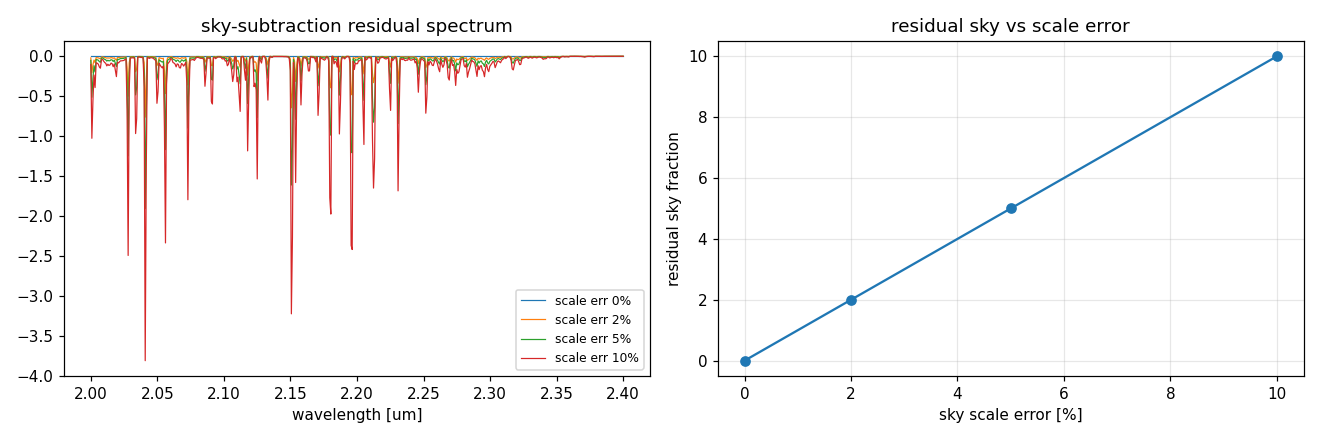
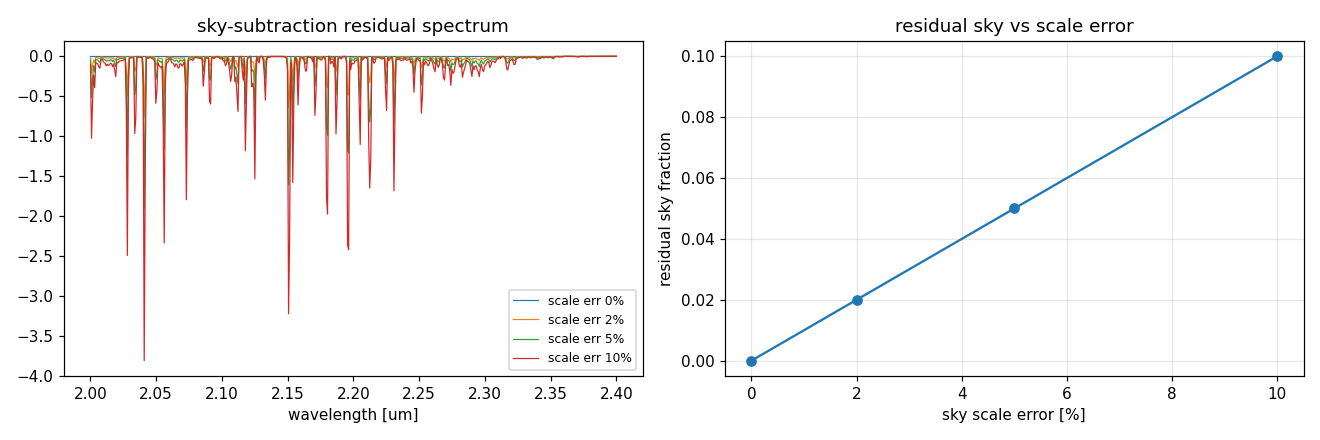
Fix review findings: sky residual fraction, summary note, manifest, highz validation, CLI
Tightly-scoped fixes; no architecture rewrite. Boundary unchanged (learning/
portfolio demonstrator; not a calibrated ETC / instrument reproduction).

P1 sky_telluric.sky_residual_metrics: the denominator summed a (1,1,nlambda)
  broadcast while the numerator summed the full cube, inflating residual_sky_
  fraction by nx*ny (10% reported as 10.0). Now broadcast the injected sky to the
  full residual shape before summing. Works for 1-D spectra and 3-D cubes.
  Regenerated sky_telluric_metrics.csv (residual_sky_fraction_max ~0.1) and
  summary.json (residual fractions [0, 0.02, 0.05, 0.10]). Added cube + 1-D
  regression tests.

P2 integration.write_artifacts: now uses reporting.write_summary_json so every
  CLI `run` summary (toy/instrument_inspired/public_conditioned/highz) carries
  author + package_version + non-overclaiming note + mode/metrics/provenance/
  provenance_counts. Removed now-unused json/__version__ imports. Test extended.

P2 CLI packaging: `ao-ifu run` is now fully package-native for ALL modes
  (highz uses make_highz_galaxy_config + write_artifacts, not examples/). Figure-
  suite subcommands still reuse examples/ and now fail with a clear source-checkout
  message; documented in README; added a graceful-failure test.

P3 manifest provenance: sky_residual_science_impact.png / sky_telluric tables now
  list the sky + filter (public/proxy) and synthetic-source classes; mode-comparison
[…]

diff --git a/src/ao_fed_ifu/integration.py b/src/ao_fed_ifu/integration.py
@@ -23,7 +23,6 @@ saves figures, a CSV metrics table and a JSON run summary.
 
 from __future__ import annotations
 
-import json
 from dataclasses import dataclass, field
 from functools import partial
 from pathlib import Path
@@ -31,7 +30,6 @@ from pathlib import Path
 import numpy as np
 import pandas as pd
 
-from . import __version__
 from . import cube_reconstruction as recon
 from . import diagnostics as diag
 from . import psf_coupling as psf
@@ -58,6 +56,11 @@ from .spectrograph_model import SpectrographConfig
 # photons / s / m^2 / um / arcsec^2.  An engineering_estimate, not a measurement;
 # the cached ESO SkyCalc radiance is used directly when available.
 SYNTHETIC_SKY_RADIANCE_PH = 1500.0
+
+# Observed-wavelength range (um) in which a high-z line can be placed: the overlap
+# of the cached public data (SVO Ks, ESO SkyCalc, CALSPEC), with a small margin so
+# a window fits around the line. Used by make_highz_galaxy_config to validate.
+SUPPORTED_HIGHZ_OBS_UM = (2.00, 2.40)
 
 
 @dataclass
@@ -182,6 +185,19 @@ def make_highz_galaxy_config(line: str = "Halpha", redshift: float = 2.30, **ove
     if line not in REST_FRAME_LINES_UM:
         raise ValueError(f"Unknown line {line!r}; choose from {list(REST_FRAME_LINES_UM)}")
     obs = observed_wavelength_um(REST_FRAME_LINES_UM[line], redshift)
+    # The observed line must land inside the band supported by the cached public
+    # data (SVO Ks ~1.95-2.40, SkyCalc 1.90-2.50, CALSPEC 0.30-2.60 um). Reject
+    # redshift/line combinations that fall outside this overlap rather than
+    # silently clamping to a degenerate band.
+    if not (SUPPORTED_HIGHZ_OBS_UM[0] <= obs <= SUPPORTED_HIGHZ_OBS_UM[1]):
+        raise ValueError(
+            f"observed {line} (rest {REST_FRAME_LINES_UM[line]:.4f} um) at z={redshift} "
+            f"is {obs:.4f} um, outside the supported public-conditioned band "
+            f"[{SUPPORTED_HIGHZ_OBS_UM[0]}-{SUPPORTED_HIGHZ_OBS_UM[1]}] um. "
+            f"Choose a redshift that places the line in that range "
+            f"(e.g. z ~ {SUPPORTED_HIGHZ_OBS_UM[0] / REST_FRAME_LINES_UM[line] - 1:.2f}"
+            f"-{SUPPORTED_HIGHZ_OBS_UM[1] / REST_FRAME_LINES_UM[line] - 1:.2f})."
+        )
     # Band around the observed line, clamped to the cached public-data overlap.
     lam_min = max(1.95, obs - 0.18)
     lam_max = min(2.45, obs + 0.18)
@@ -754,16 +770,16 @@ def write_artifacts(
     paths["metrics_csv"] = csv_path
 
     # --- JSON: metrics + provenance + a short config summary. ---
-    summary = {
-        "package_version": __version__,
-        "author": "Xu Han",
+    # Use the shared helper so the summary carries the same author / version /
+    # non-overclaiming note as every other artifact in the project.
+    from . import reporting as rep
+
+    json_path = rep.write_summary_json(outdir / f"{prefix}_summary.json", {
         "mode": result.config.mode,
         "metrics": result.metrics,
         "provenance": result.provenance.to_records(),
         "provenance_counts": result.provenance.summary_counts(),
-    }
-    json_path = outdir / f"{prefix}_summary.json"
-    json_path.write_text(json.dumps(summary, indent=2), encoding="utf-8")
+    })
     paths["summary_json"] = json_path
 
     return paths

diff --git a/examples/run_sky_telluric_residuals.py b/examples/run_sky_telluric_residuals.py
@@ -158,14 +158,20 @@ def generate(outdir: Path, quick: bool = False, cache_dir=None) -> dict:
         ],
     })
 
+    # Provenance classes that actually feed each artifact: the SkyCalc sky +
+    # telluric and the SVO filter (public or proxy), the engineering_estimate sky
+    # scaling, the synthetic source line, and the internal_validation biases.
     sky_class = sky_prov.source_class
+    filt_class = filt_prov.source_class
+    data_classes = sorted({sky_class, filt_class})
+    full = ["internal_validation", "engineering_estimate", "synthetic_proxy", *data_classes]
     entries = [
-        rep.manifest_entry(p1.name, "figure", GEN, sky_class, [sky_class, "engineering_estimate"], "SkyCalc + SVO cache", "Sky/telluric inputs."),
-        rep.manifest_entry(p2.name, "figure", GEN, "internal_validation", ["internal_validation", "engineering_estimate", sky_class], "controlled sky subtraction", "Subtraction residuals."),
-        rep.manifest_entry(p3.name, "figure", GEN, "internal_validation", ["internal_validation", sky_class], "controlled telluric correction", "Telluric correction effect."),
-        rep.manifest_entry(p4.name, "figure", GEN, "internal_validation", ["internal_validation", "engineering_estimate"], "controlled residual scan", "Science impact."),
-        rep.manifest_entry(csv.name, "table", GEN, "internal_validation", ["internal_validation", "engineering_estimate", sky_class], "sky/telluric experiment", "Residual + science metrics."),
-        rep.manifest_entry(summ.name, "table", GEN, "internal_validation", ["internal_validation", "engineering_estimate", sky_class], "sky/telluric experiment", "Residuals + limitations."),
+        rep.manifest_entry(p1.name, "figure", GEN, sky_class, [*data_classes, "engineering_estimate"], "SkyCalc + SVO cache", "Sky/telluric inputs."),
+        rep.manifest_entry(p2.name, "figure", GEN, "internal_validation", ["internal_validation", "engineering_estimate", *data_classes], "controlled sky subtraction", "Subtraction residuals."),
+        rep.manifest_entry(p3.name, "figure", GEN, "internal_validation", ["internal_validation", "synthetic_proxy", *data_classes], "controlled telluric correction", "Telluric correction effect."),
+        rep.manifest_entry(p4.name, "figure", GEN, "internal_validation", full, "controlled residual scan", "Science impact (sky+telluric+filter+source)."),
+        rep.manifest_entry(csv.name, "table", GEN, "internal_validation", full, "sky/telluric experiment", "Residual + science metrics."),
+        rep.manifest_entry(summ.name, "table", GEN, "internal_validation", full, "sky/telluric experiment", "Residuals + limitations."),
     ]
     rep.update_manifest(outdir, entries)
     return {"inputs": p1, "subtraction": p2, "telluric": p3, "impact": p4, "metrics_csv": csv, "summary_json": summ}

diff --git a/src/ao_fed_ifu/cli.py b/src/ao_fed_ifu/cli.py
@@ -28,11 +28,24 @@ RUN_MODES = ("toy", "instrument_inspired", "public_conditioned", "highz")
 
 
 def _load_example(name: str):
-    """Import an ``examples/<name>.py`` generator module from the source tree."""
+    """Import an ``examples/<name>.py`` figure generator from the source tree.
+
+    The figure-suite subcommands reuse the example plotting code, which lives
+    outside the installed package.  ``run`` and ``validate`` are package-native
+    and do not call this; the figure suites require a **source checkout** (the
+    repository's ``examples/`` directory).  Raises a clear ``SystemExit`` if the
+    generator cannot be found.
+    """
     examples_dir = Path(__file__).resolve().parents[2] / "examples"
     path = examples_dir / f"{name}.py"
     if not path.exists():
-        raise SystemExit(f"generator {path} not found; run ao-ifu from a source checkout")
+        raise SystemExit(
+            f"figure-suite generator '{name}' not found at {path}.\n"
+            "The figure-suite subcommands (public-data, compare, systematics, "
+            "sky-telluric, reconstruct-demo) require running 'ao-ifu' from a source "
+            "checkout containing examples/. The core 'run' and 'validate' "
+            "subcommands work from any install."
+        )
     spec = importlib.util.spec_from_file_location(name, path)
     mod = importlib.util.module_from_spec(spec)
     spec.loader.exec_module(mod)
@@ -46,23 +59,20 @@ def _print_paths(title: str, paths) -> None:
 
 
 def _cmd_run(args) -> int:
+    # Fully package-native (no dependency on examples/): every mode runs the
+    # pipeline and writes standard artifacts. The richer high-z *science* figures
+    # live in examples/run_science_case_highz_galaxy.py.
     from .integration import (
-        make_instrument_inspired_config, make_public_conditioned_config,
-        make_toy_config, run_pipeline, write_artifacts,
+        make_highz_galaxy_config, make_instrument_inspired_config,
+        make_public_conditioned_config, make_toy_config, run_pipeline, write_artifacts,
     )
 
     out = Path(args.out)
-    if args.mode == "highz":
-        # Use the richer science-case generator for the high-z mode.
-        mod = _load_example("run_science_case_highz_galaxy")
-        paths = mod.generate(out, quick=args.quick)
-        _print_paths("high-z science artifacts:", paths)
-        return 0
-
     builders = {
         "toy": make_toy_config,
         "instrument_inspired": make_instrument_inspired_config,
         "public_conditioned": make_public_conditioned_config,
+        "highz": make_highz_galaxy_config,
     }
     if args.mode not in builders:
         raise SystemExit(f"unknown --mode {args.mode!r}; choose from {RUN_MODES}")

diff --git a/examples/run_mode_comparison_dashboard.py b/examples/run_mode_comparison_dashboard.py
@@ -119,15 +119,18 @@ def generate(outdir: Path, quick: bool = False, cache_dir=None) -> dict:
         "limitations": ["Small configs for a fast one-page comparison; not performance predictions."],
     })
 
+    # Provenance classes actually represented by the compared runs (public_conditioned
+    # and highz add direct_public_data / literature_derived), plus the metric labels.
+    run_classes = sorted({cls for name in modes for cls, n in results[name].provenance.summary_counts().items() if n})
+    metric_classes = sorted({r["source_class"] for r in records})
+    full = sorted(set(run_classes) | set(metric_classes))
     entries = [
-        rep.manifest_entry(p1.name, "figure", GEN, "synthetic_proxy",
-                           ["synthetic_proxy", "engineering_estimate", "internal_validation", "direct_public_data", "literature_derived"],
+        rep.manifest_entry(p1.name, "figure", GEN, "synthetic_proxy", full,
                            "all four modes", "Mode comparison dashboard."),
-        rep.manifest_entry(csv.name, "table", GEN, "internal_validation",
-                           ["synthetic_proxy", "engineering_estimate", "internal_validation"],
+        rep.manifest_entry(csv.name, "table", GEN, "internal_validation", full,
                            "all four modes", "mode,metric,value,source_class,notes."),
-        rep.manifest_entry(summ.name, "table", GEN, "internal_validation",
-                           ["internal_validation"], "all four modes", "Modes + provenance counts."),
+        rep.manifest_entry(summ.name, "table", GEN, "internal_validation", full,
+                           "all four modes", "Modes + provenance counts."),
     ]
     rep.update_manifest(outdir, entries)
     return {"dashboard": p1, "metrics_csv": csv, "summary_json": summ}

diff --git a/src/ao_fed_ifu/sky_telluric.py b/src/ao_fed_ifu/sky_telluric.py
@@ -124,8 +124,15 @@ def sky_residual_metrics(
     * ``residual_sky_fraction`` -- ``sum|residual| / sum(injected sky)`` (0 = perfect
       subtraction; the absolute value captures both over- and under-subtraction);
     * ``telluric_min_transmission`` -- the deepest telluric trough in band.
+
+    Works for a 1-D spectrum or a 3-D cube: the injected sky (which may be a 1-D
+    per-spaxel spectrum) is broadcast to the *full* shape of ``residual`` before
+    summing, so the numerator and denominator span the same number of voxels.
     """
-    sky_total = float(np.sum(np.abs(_broadcast_spectral(residual, np.asarray(sky_injected, dtype=float)))))
+    residual = np.asarray(residual, dtype=float)
+    sky_spectral = _broadcast_spectral(residual, np.asarray(sky_injected, dtype=float))
+    sky_full = np.broadcast_to(sky_spectral, residual.shape)
+    sky_total = float(np.sum(np.abs(sky_full)))
     resid_total = float(np.sum(np.abs(residual)))
     frac = resid_total / sky_total if sky_total > 0 else float("nan")
     return {

diff --git a/tests/test_sky_telluric.py b/tests/test_sky_telluric.py
@@ -44,6 +44,25 @@ def test_nonzero_sky_scale_error_gives_nonzero_residual():
     assert np.max(np.abs(imperfect - perfect)) > 0
 
 
+def test_residual_sky_fraction_cube_is_not_inflated():
+    # Regression: the denominator must span the full cube, not a single spectrum.
+    nlam = 30
+    sky_e = np.linspace(1.0, 5.0, nlam)
+    trans = np.full(nlam, 0.9)
+    residual = -0.05 * sky_e[None, None, :] * np.ones((4, 3, nlam))
+    frac = skt.sky_residual_metrics(residual, sky_e, trans)["residual_sky_fraction"]
+    assert frac == pytest.approx(0.05, rel=1e-6)  # ~0.05, NOT 0.05 * nx * ny
+
+
+def test_residual_sky_fraction_spectrum():
+    nlam = 30
+    sky_e = np.linspace(1.0, 5.0, nlam)
+    trans = np.full(nlam, 0.9)
+    residual = -0.10 * sky_e
+    frac = skt.sky_residual_metrics(residual, sky_e, trans)["residual_sky_fraction"]
+    assert frac == pytest.approx(0.10, rel=1e-6)
+
+
 def test_telluric_correction_inverts_absorption():
     wl = np.linspace(2.0, 2.4, 50)
     sky, _ = load_sky_spectrum(wl)

diff --git a/tests/test_cli_and_dashboard.py b/tests/test_cli_and_dashboard.py
@@ -31,6 +31,20 @@ def test_cli_invalid_mode_exits_nonzero():
     assert exc.value.code != 0
 
 
+def test_cli_run_highz_is_package_native(tmp_path):
+    # `run --mode highz` must not depend on examples/ (package-native path).
+    assert main(["run", "--mode", "highz", "--out", str(tmp_path), "--quick"]) == 0
+    assert (tmp_path / "highz_metrics.csv").exists()
+    df = pd.read_csv(tmp_path / "highz_metrics.csv")
+    assert set(df["source_class"]).issubset(set(VALID_SOURCE_CLASSES))
+
+
+def test_load_example_missing_raises_helpful():
+    with pytest.raises(SystemExit) as exc:
+        _load_example("definitely_not_a_real_generator")
+    assert "source checkout" in str(exc.value)
+
+
 def test_dashboard_imports_safely_and_formats_metrics():
     mod = _load_example("run_interactive_dashboard")
     # Formatting helpers work without a Streamlit runtime.

diff --git a/tests/test_integration.py b/tests/test_integration.py
@@ -51,7 +51,13 @@ def test_summary_json_carries_provenance_log(tmp_path):
     result = run_pipeline(make_toy_config())
     paths = write_artifacts(result, tmp_path, prefix="t")
     summary = json.loads(paths["summary_json"].read_text())
+    # The shared writer must inject author / version / non-overclaiming note and
+    # keep the run fields, so CLI `run` summaries are consistent with the rest.
+    for key in ["author", "package_version", "note", "mode", "metrics",
+                "provenance", "provenance_counts"]:
+        assert key in summary, key
     assert summary["author"] == "Xu Han"
+    assert "NOT" in summary["note"]
     assert len(summary["provenance"]) > 0
     for record in summary["provenance"]:
         assert record["source_class"] in VALID_SOURCE_CLASSES

diff --git a/tests/test_science_case.py b/tests/test_science_case.py
@@ -19,6 +19,17 @@ def test_observed_wavelength_lies_in_band():
         assert cfg.lambda_min_um <= obs <= cfg.lambda_max_um
 
 
+def test_out_of_band_redshift_raises():
+    import pytest
+
+    # H-alpha at z=0.5 -> ~0.98 um, far below the supported 2.0-2.4 um band.
+    with pytest.raises(ValueError, match="outside the supported"):
+        make_highz_galaxy_config(line="Halpha", redshift=0.5)
+    # [O II] at z=10 -> ~4.1 um, far above the band.
+    with pytest.raises(ValueError, match="outside the supported"):
+        make_highz_galaxy_config(line="OII", redshift=10.0)
+
+
 def test_generate_runs_with_tiny_config(tmp_path):
     mod = _load_example("run_science_case_highz_galaxy")
     paths = mod.generate(tmp_path, line="Halpha", redshift=2.30, quick=True)

diff --git a/README.md b/README.md
@@ -256,6 +256,12 @@ ao-ifu sky-telluric   # sky/telluric residuals
 ao-ifu reconstruct-demo
 ```
 
+`run` and `validate` are **package-native** (work from any install). The
+figure-suite subcommands (`public-data`, `compare`, `systematics`,
+`sky-telluric`, `reconstruct-demo`) reuse the example plotting code and therefore
+require a **source checkout** containing `examples/`; they exit with a clear
+message otherwise.
+
 ## Regenerating figures and tables
 
 All artifacts under `figures/generated/` are reproducible and tracked by an
